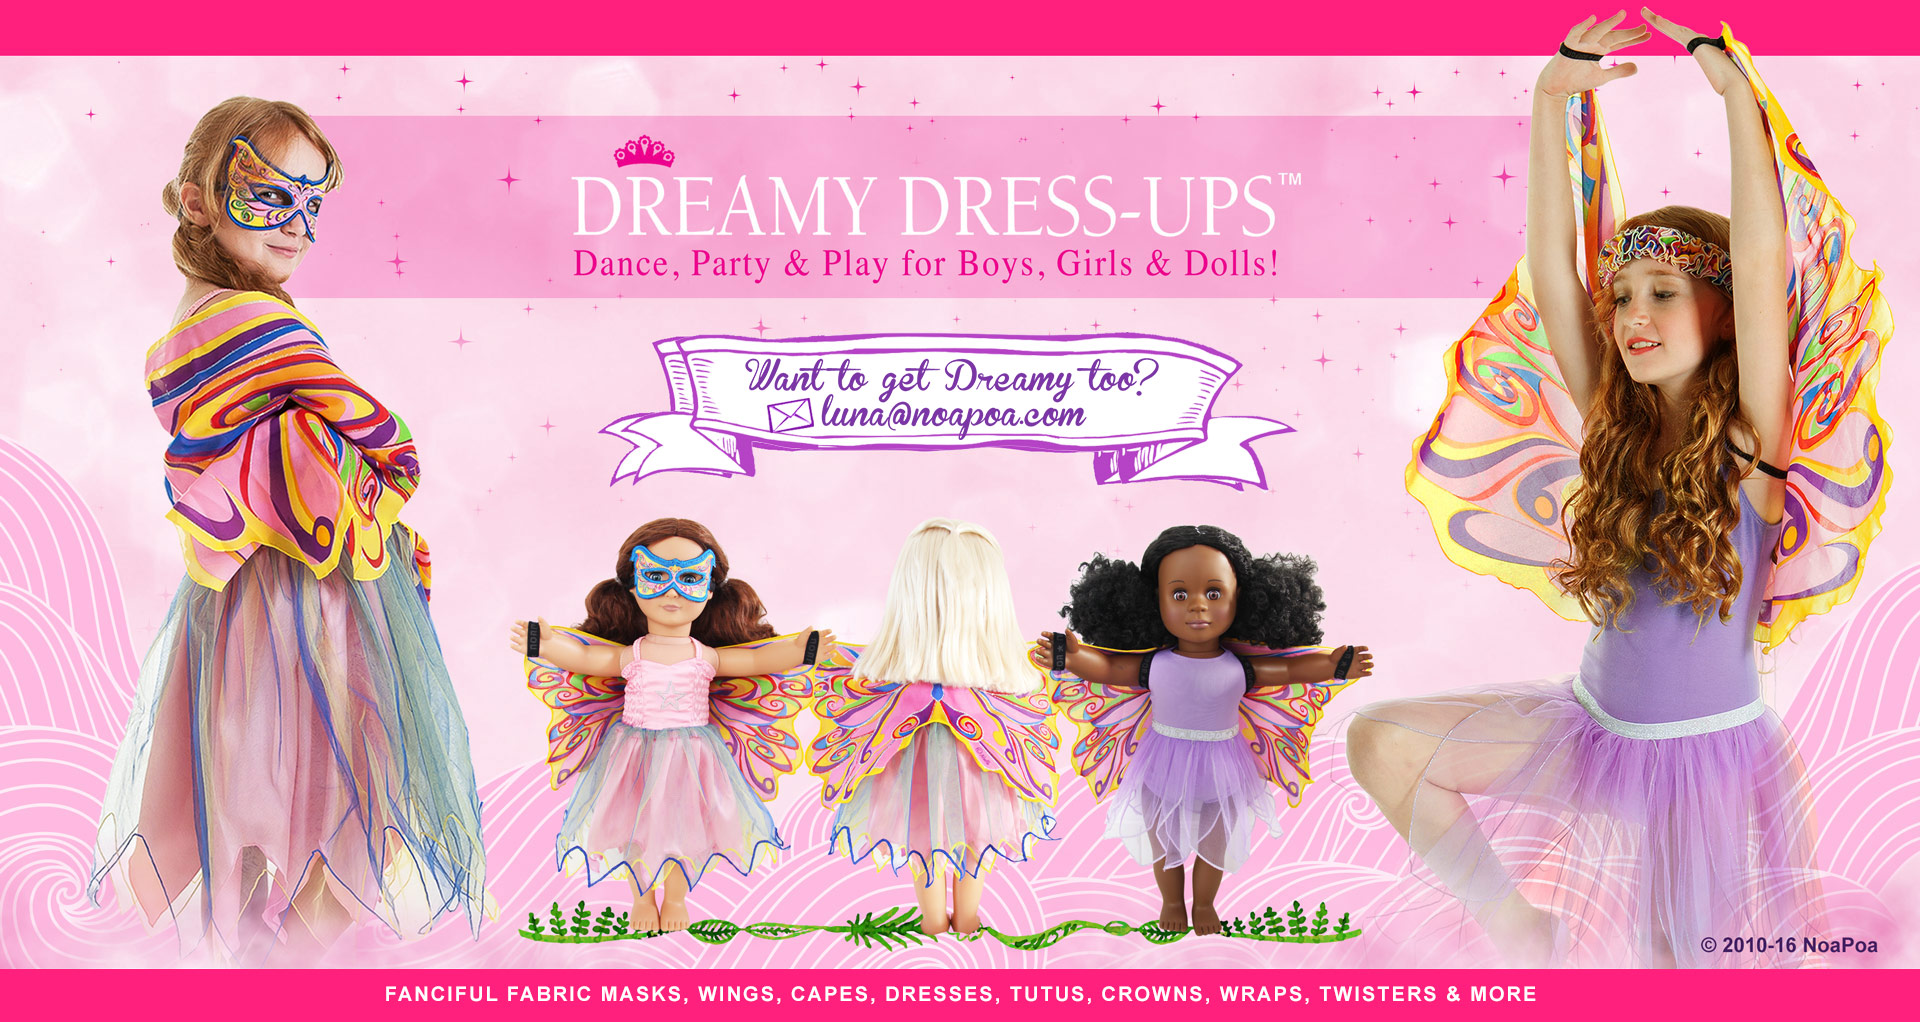
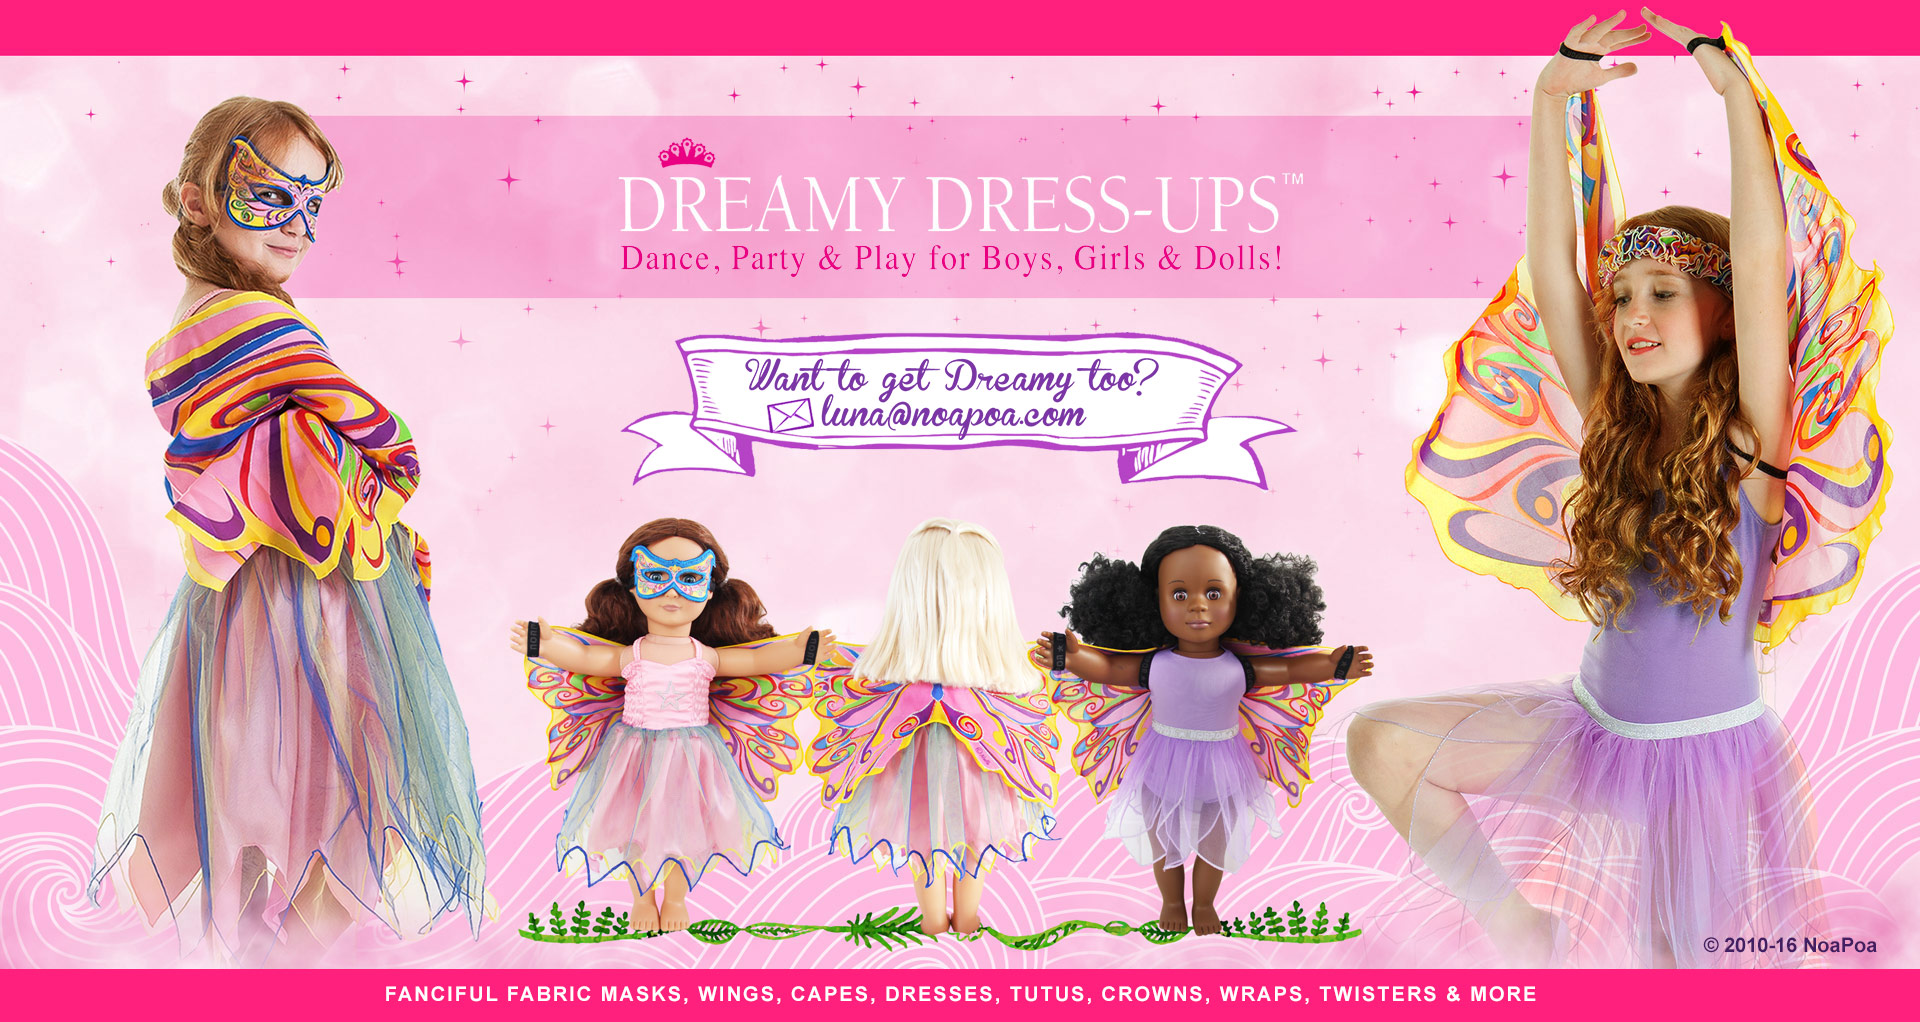
hahaha 4

diff --git a/public/assets/css/base.css b/public/assets/css/base.css
@@ -394,7 +394,10 @@ div.container {
     height: 100%; }
     div.container .mail a {
       display: block;
-      height: 50%; }
+      width: 35%;
+      margin-left: calc(50% - 17%);
+      height: 20%;
+      margin-top: 15%; }
       div.container .mail a img {
         display: none; }
   div.container .copy {
@@ -434,7 +437,10 @@ div.container {
       div.container .mail a {
         max-width: 100%;
         padding-bottom: 0;
-        height: 30%; }
+        width: 85%;
+        margin-left: calc(50% - 42%);
+        height: 15%;
+        margin-top: 30%; }
         div.container .mail a img {
           visibility: hidden;
           max-width: 100%; }
